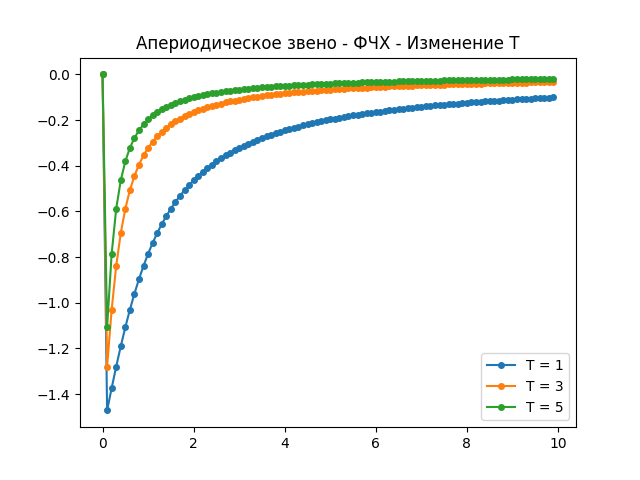
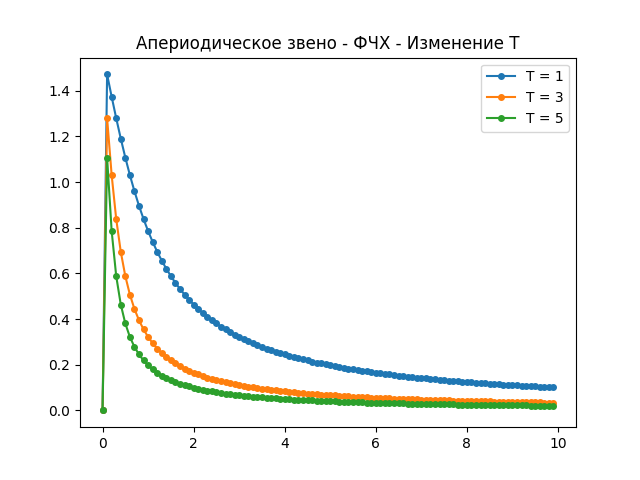
Обновление

diff --git a/main.py b/main.py
@@ -10,7 +10,7 @@ def findModule(x, y):
 def findAngle(x, y):
     if y == 0:
         return 0
-    return math.atan(x / y)
+    return math.atan(-x / y)
 
 
 class Aper(Link.Link):
@@ -57,6 +57,9 @@ class Aper(Link.Link):
             yp.append(y)
             xp.append(w)
         return xp, yp
+
+class dif(Link.Link):
+    pass
 
 
 ap = Aper()
